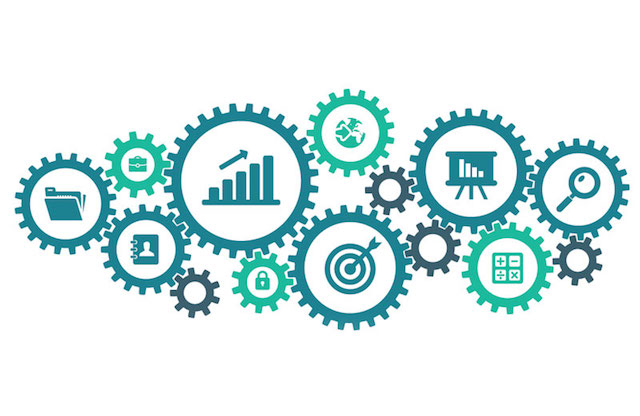
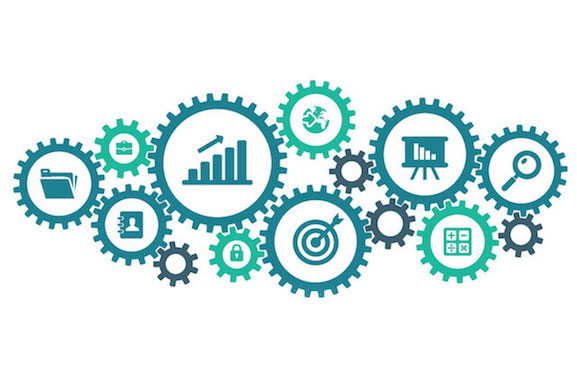
t

diff --git a/_layouts/page.html b/_layouts/page.html
@@ -38,7 +38,7 @@ layout: default
                         </div>
                         <div class="vc_empty_space" style="height: 60px" ><span class="vc_empty_space_inner"></span></div>  
                         <div class="wpb_single_image wpb_content_element vc_align_center">  
-                                <img src="img/ml.jpg" alt="Mobirise" title="" style="width:50%,height:30%" align="center">     
+                                <img src="img/ml.jpg" alt="Mobirise" title="" style="width:45%,height:30%" align="center">     
                         </div>
                     </div>
                     
@@ -49,7 +49,7 @@ layout: default
                         <div class="vc_empty_space" style="height: 60px" ><span class="vc_empty_space_inner"></span></div>  
                         <div class="wpb_single_image wpb_content_element vc_align_center">  
                             <figure class="wpb_wrapper vc_figure">  
-                                <img src="img/bi.jpg" alt="Mobirise" title="" style="width:50%,height:30%" align="center">  
+                                <img src="img/bi.jpg" alt="Mobirise" title="" style="width:45%,height:30%" align="center">  
                             </figure>   
                         </div>
                     </div>
@@ -62,7 +62,7 @@ layout: default
                         <div class="wpb_single_image wpb_content_element vc_align_center wpb_animate_when_almost_visible wpb_fadeIn fadeIn">    
                             <figure class="wpb_wrapper vc_figure">  
                                  <div class="vc_single_image-wrapper vc_box_border_grey">
-                                    <img src="img/wf.jpg" alt="Mobirise" title="" style="width:50%,height:30%" align="center">
+                                    <img src="img/wf.jpg" alt="Mobirise" title="" style="width:45%,height:30%" align="center">
                                  </div>  
                             </figure>   
                         </div>
